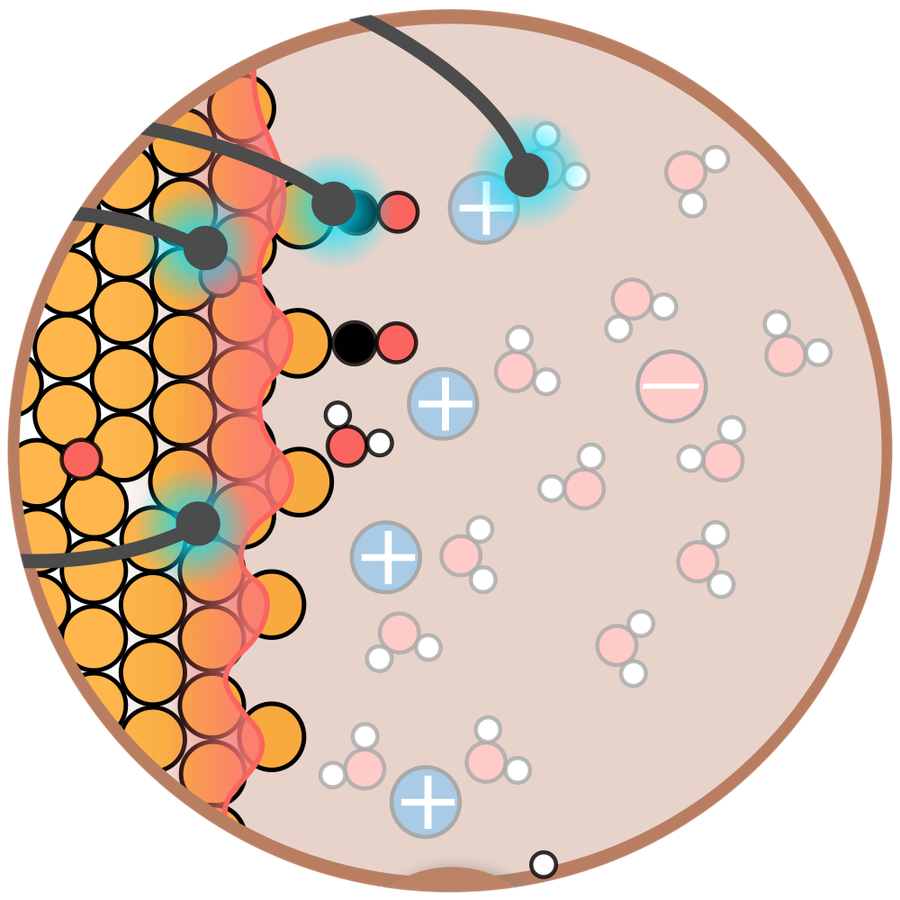
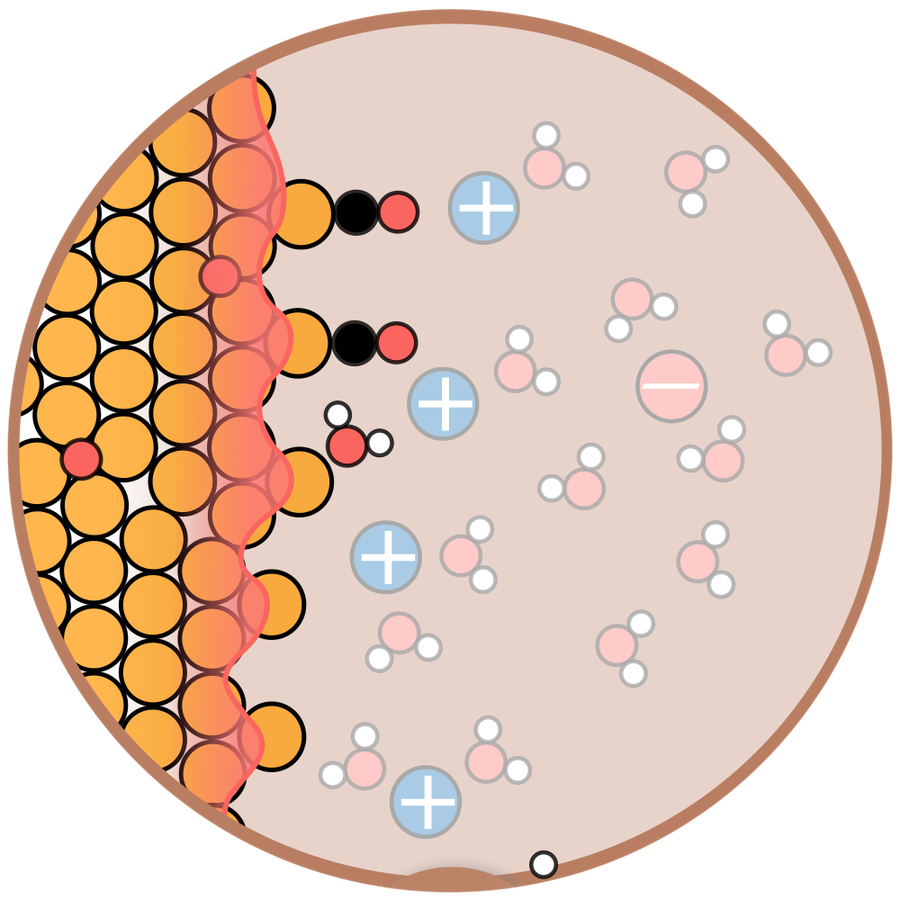
Drop the leader lines and their halos from the subgroup circles
The circles still carried the annotation that used to point into them: twelve
thick grey curves, each ending in a dot, and twelve cyan halos marking whatever
each one pointed at. With the labels cropped away they were lines from nowhere
and highlights on nothing.

Removed in the SVG rather than out of the bitmap. Painting them out would have
meant inpainting whatever they crossed -- one of the grey curves runs straight
over the orange spheres in Materials -- and a nearest-neighbour fill there
smears the artwork. Dropping the elements instead means the figure renders with
what was underneath them intact.

Both sets are unambiguous. The leader lines are twelve <path> elements with
fill:none, stroke:#4c4c4c, stroke-width:1.32183 and twelve <circle> elements
filled with the same grey for the dots; nothing else in the figure uses that
colour, so 24 elements matched and 24 were dropped. The halos are twelve
<circle> elements of identical radius 5.584589, each filled with its own
radialGradient whose two stops are both #00e3ff -- matched through the gradient
because the halo is a fade, not a flat fill, so no rendered colour identifies
it. Their ids interleave with the leader paths (circle113/115/117/119 against
path114/116/117/120, and so on), which is the pairing you would expect of one
halo per line.

What stays is content: the thin black arrows carrying species to the interface,
and the red CO2/HCO3- arrows and transport curves in the cell cross-section.
[…]

diff --git a/scripts/make_subgroup_circles.py b/scripts/make_subgroup_circles.py
@@ -37,7 +37,9 @@ divided into coloured bands.
 """
 from __future__ import annotations
 
+import io
 import os
+import re
 import shutil
 import subprocess
 import sys
@@ -60,11 +62,103 @@ PANELS = [
     ("subgroup_multiscale_circle.png", 0.725, 1.000),
 ]
 
+# The annotation leader lines: one <path> each (fill:none, stroke:#4c4c4c) plus
+# one <circle> of the same colour for the dot on its end, 24 elements in all and
+# nothing else in the figure uses that grey. Dropping them from a copy of the
+# SVG before rasterising means the artwork they crossed is rendered intact --
+# masking or inpainting them out of the bitmap afterwards would have smeared the
+# spheres and bands underneath. The source file is never written to.
+LEADER_COLOUR = "#4c4c4c"
+
+# The cyan halo each leader line pointed at: a <circle> of r=5.58 filled with
+# its own radialGradient whose two stops are both this colour, twelve of them,
+# one per leader. With the lines gone they are orphaned markers pointing at
+# nothing, so they go too. Matched through the gradient rather than by rendered
+# colour because the halo is a fade, not a flat fill.
+GLOW_COLOUR = "#00e3ff"
+
 RENDER_WIDTH = 6000   # circles land near 1050px across, so nothing is upscaled
 OUT_SIZE = 900        # px square
 MARGIN = 0.02         # of the radius, kept outside the rim
 FEATHER = 1.5         # px of soft edge on the mask, so the rim is not aliased
 ALPHA_FLOOR = 40      # below this a pixel is background
+
+
+def _glow_gradient_ids(text: str) -> list[str]:
+    """Ids of the gradients whose every stop is GLOW_COLOUR.
+
+    Inkscape splits a gradient in two -- one element carrying the stops, another
+    carrying the geometry and pointing at it with xlink:href -- so the chain has
+    to be followed before the stops can be read.
+    """
+    grads: dict[str, dict] = {}
+    for m in re.finditer(r"<(radialGradient|linearGradient)\b([^>]*)>(.*?)</\1>",
+                         text, re.S):
+        gid = re.search(r'id="([^"]+)"', m.group(2))
+        if gid:
+            href = re.search(r'href="#([^"]+)"', m.group(2))
+            grads[gid.group(1)] = {
+                "href": href.group(1) if href else None,
+                "stops": re.findall(r"stop-color:(#[0-9a-fA-F]{6})", m.group(3)),
+            }
+    for m in re.finditer(r"<(radialGradient|linearGradient)\b([^>]*)/>", text):
+        gid = re.search(r'id="([^"]+)"', m.group(2))
+        if gid and gid.group(1) not in grads:
+            href = re.search(r'href="#([^"]+)"', m.group(2))
+            grads[gid.group(1)] = {"href": href.group(1) if href else None,
+                                   "stops": []}
+
+    def stops(gid: str | None, depth: int = 0) -> list[str]:
+        g = grads.get(gid or "")
+        if not g or depth > 6:
+            return []
+        return g["stops"] or stops(g["href"], depth + 1)
+
+    return [g for g in grads
+            if (st := stops(g)) and all(c.lower() == GLOW_COLOUR for c in st)]
+
+
+def strip_annotation(svg: str, dest: str) -> tuple[int, int]:
+    """Copy `svg` to `dest` without the leader lines or their halos.
+
+    Returns (leader elements dropped, halo elements dropped).
+    """
+    text = io.open(svg, encoding="utf-8", errors="replace").read()
+
+    needles = [(LEADER_COLOUR, "leader")]
+    needles += [(f"url(#{gid})", "glow") for gid in _glow_gradient_ids(text)]
+
+    cuts = []
+    for needle, kind in needles:
+        at = 0
+        while True:
+            hit = text.find(needle, at)
+            if hit < 0:
+                break
+            start = text.rfind("<", 0, hit)
+            end = text.find(">", hit)
+            if start < 0 or end < 0:
+                raise SystemExit("!! unbalanced markup around a %s element" % kind)
+            if text[end - 1] != "/":
+                # Every one of these is self-closing today; a container would
+                # need its closing tag found too, so refuse rather than corrupt
+                # the file.
+                raise SystemExit(f"!! {needle} on a non-self-closing element at "
+                                 f"{start}; widen strip_annotation() first")
+            cuts.append((start, end + 1, kind))
+            at = end + 1
+
+    cuts.sort()
+    keep, prev = [], 0
+    for a, b, _ in cuts:
+        if a < prev:            # a gradient ref inside an already-cut element
+            continue
+        keep.append(text[prev:a])
+        prev = b
+    keep.append(text[prev:])
+    io.open(dest, "w", encoding="utf-8").write("".join(keep))
+    return (sum(1 for c in cuts if c[2] == "leader"),
+            sum(1 for c in cuts if c[2] == "glow"))
 
 
 def rasterise(svg: str, dest: str) -> bool:
@@ -117,8 +211,13 @@ def main() -> int:
 
     os.makedirs(OUT_DIR, exist_ok=True)
     with tempfile.TemporaryDirectory() as tmp:
+        clean = os.path.join(tmp, "no-annotation.svg")
+        n_lead, n_glow = strip_annotation(svg, clean)
+        print(f"  dropped {n_lead} leader-line elements ({LEADER_COLOUR}) "
+              f"and {n_glow} halos ({GLOW_COLOUR})")
+
         render = os.path.join(tmp, "overview.png")
-        if not rasterise(svg, render):
+        if not rasterise(clean, render):
             return 1
         full = Image.open(render).convert("RGBA")
         print(f"  rendered {full.width}x{full.height}")
